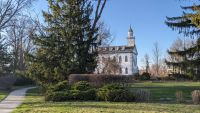
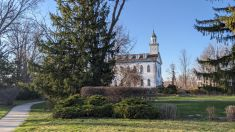
week2: resize images

diff --git a/temples.html b/temples.html
@@ -1,25 +1,23 @@
 <!DOCTYPE html>
 <html lang="en-US">
 <head>
-    <meta charset="utf-8">
+    <meta charset="UTF-8">
     <meta name="viewport" content="width=device-width,initial-scale=1.0">
     <title>WDD 131 - Temple Album - Ross L. Owen</title>
     <meta name="description" content="WDD 131 | Ross L. Owen | Temple Album">
     <meta name="author" content="Ross L. Owen">
 
-    <link rel="preconnect" href="https://fonts.googleapis.com">
-    <link rel="preconnect" href="https://fonts.gstatic.com" crossorigin>
-    <link href="https://fonts.googleapis.com/css2?family=Plus+Jakarta+Sans:ital,wght@0,200..800;1,200..800&display=swap"
-          rel="stylesheet">
-    <link href="https://fonts.googleapis.com/css2?family=Montserrat:ital,wght@0,100..900;1,100..900&family=Plus+Jakarta+Sans:ital,wght@0,200..800;1,200..800&display=swap"
-          rel="stylesheet">
-
     <link rel="stylesheet" href="styles/temples.css">
     <link rel="stylesheet" href="styles/temples-large.css">
+
+    <link rel="preconnect" href="https://fonts.gstatic.com" crossorigin>
+    <link href="https://fonts.googleapis.com/css2?family=Montserrat:ital,wght@0,100..900;1,100..900&family=Plus+Jakarta+Sans:ital,wght@0,200..800;1,200..800&display=swap"
+          rel="stylesheet">
+    
     <script src="scripts/getdates.js" defer></script>
     <script src="scripts/temples.js" defer></script>
 </head>
-<body class="montserrat-200">
+<body>
 <header>
     <h1>WDD 131 - Temple Album - Ross L. Owen</h1>
     <button id="menu" name="menu"></button>
@@ -34,7 +32,7 @@
     </nav>
 </header>
 <main>
-    <h2 id="page-name">Home</h2>
+    <h2>Home</h2>
     <div class="temple-pictures">
         <figure>
             <img src="images/temples/chichen-Itza.jpg" alt="Chichen Itza">

diff --git a/styles/temples.css b/styles/temples.css
@@ -109,7 +109,7 @@ header h1 {
 }
 
 figure img {
-    width: 200px;
+    width: 235px;
     height: auto;
 }
 
